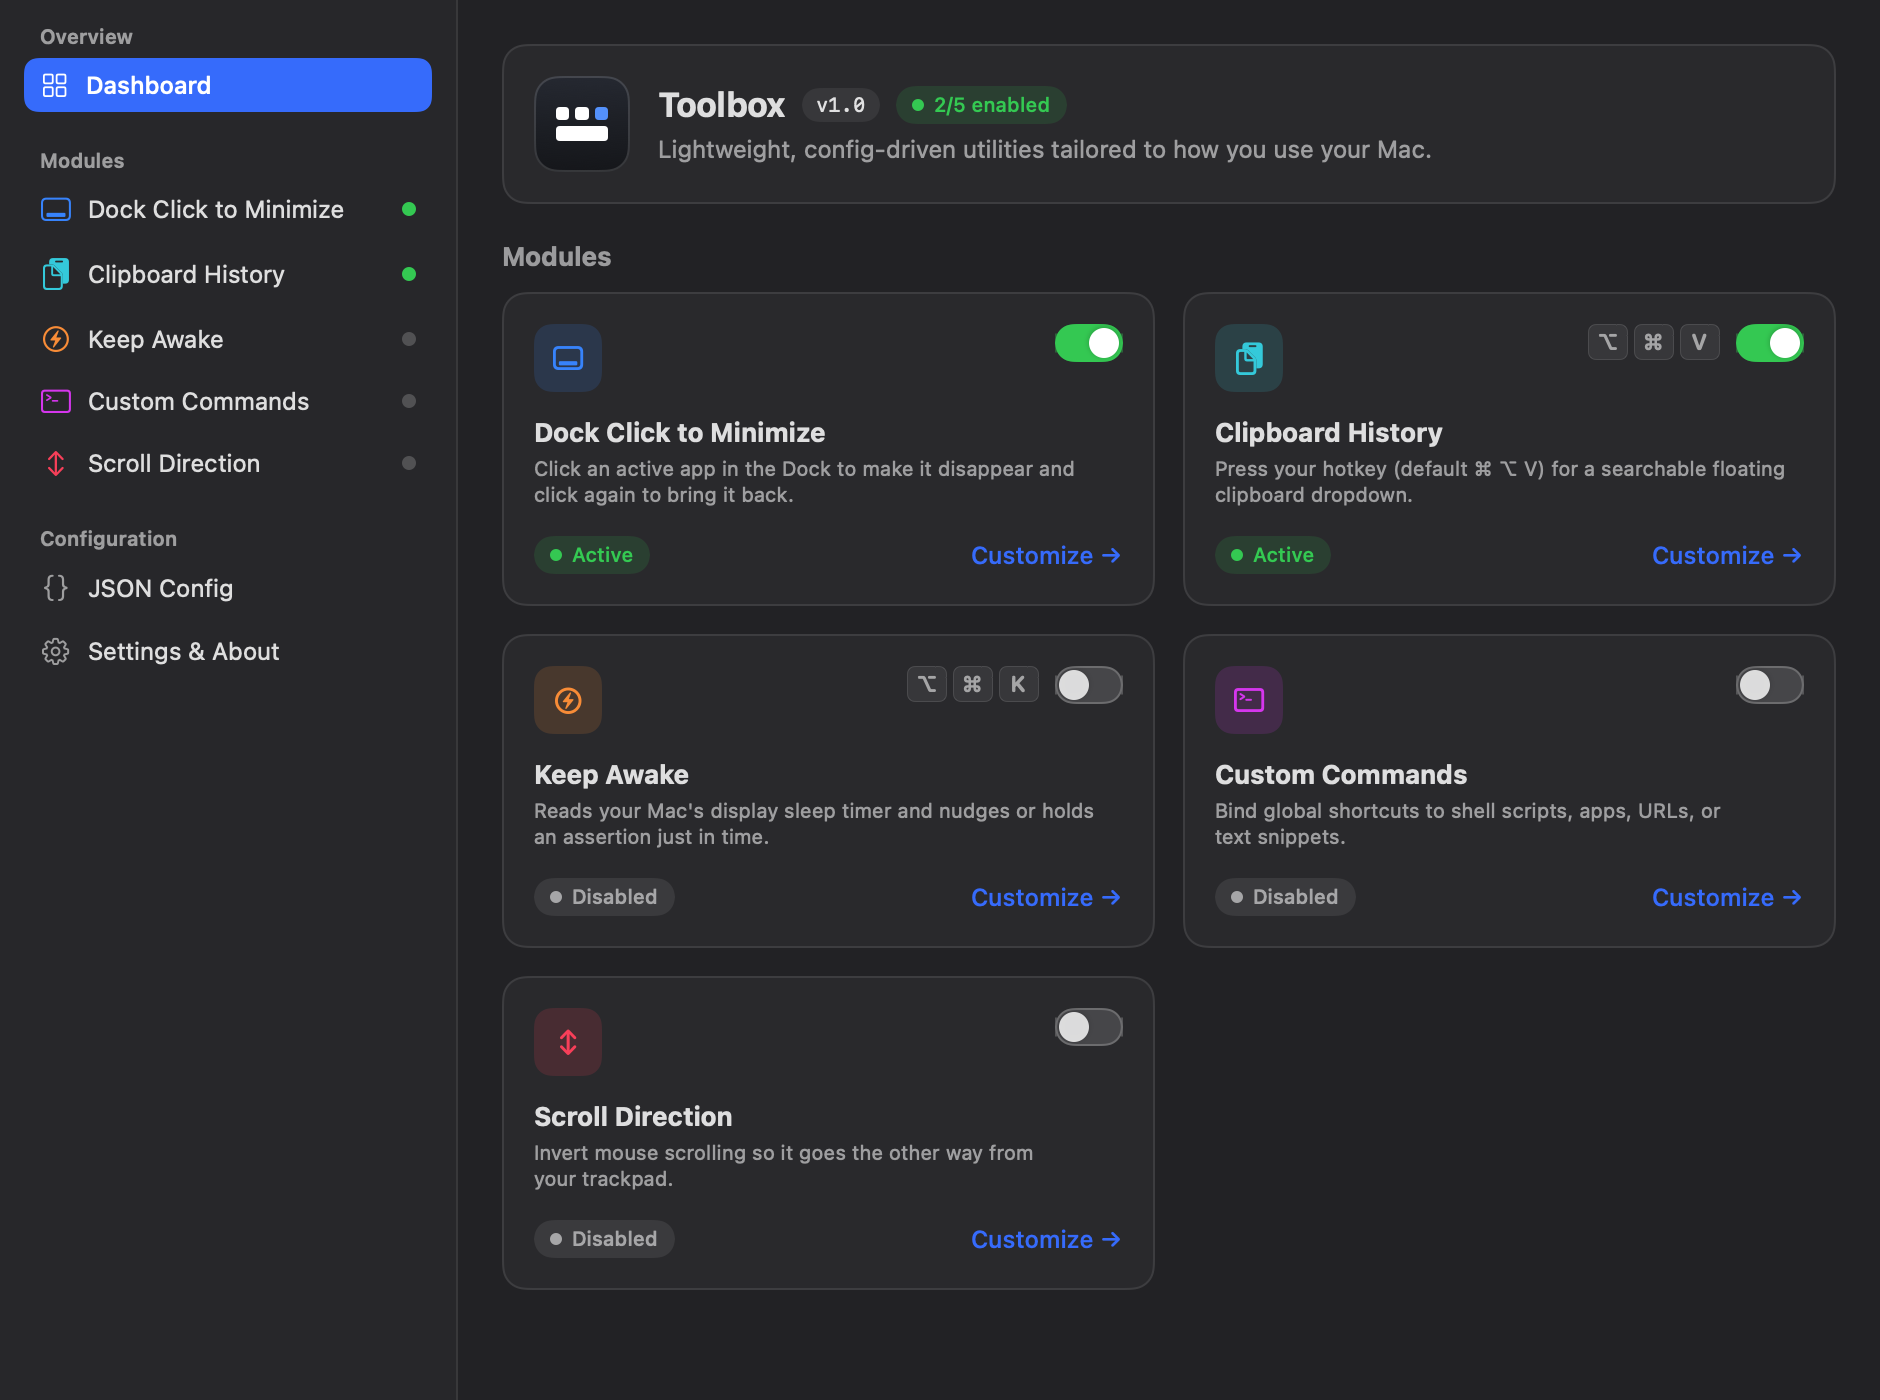
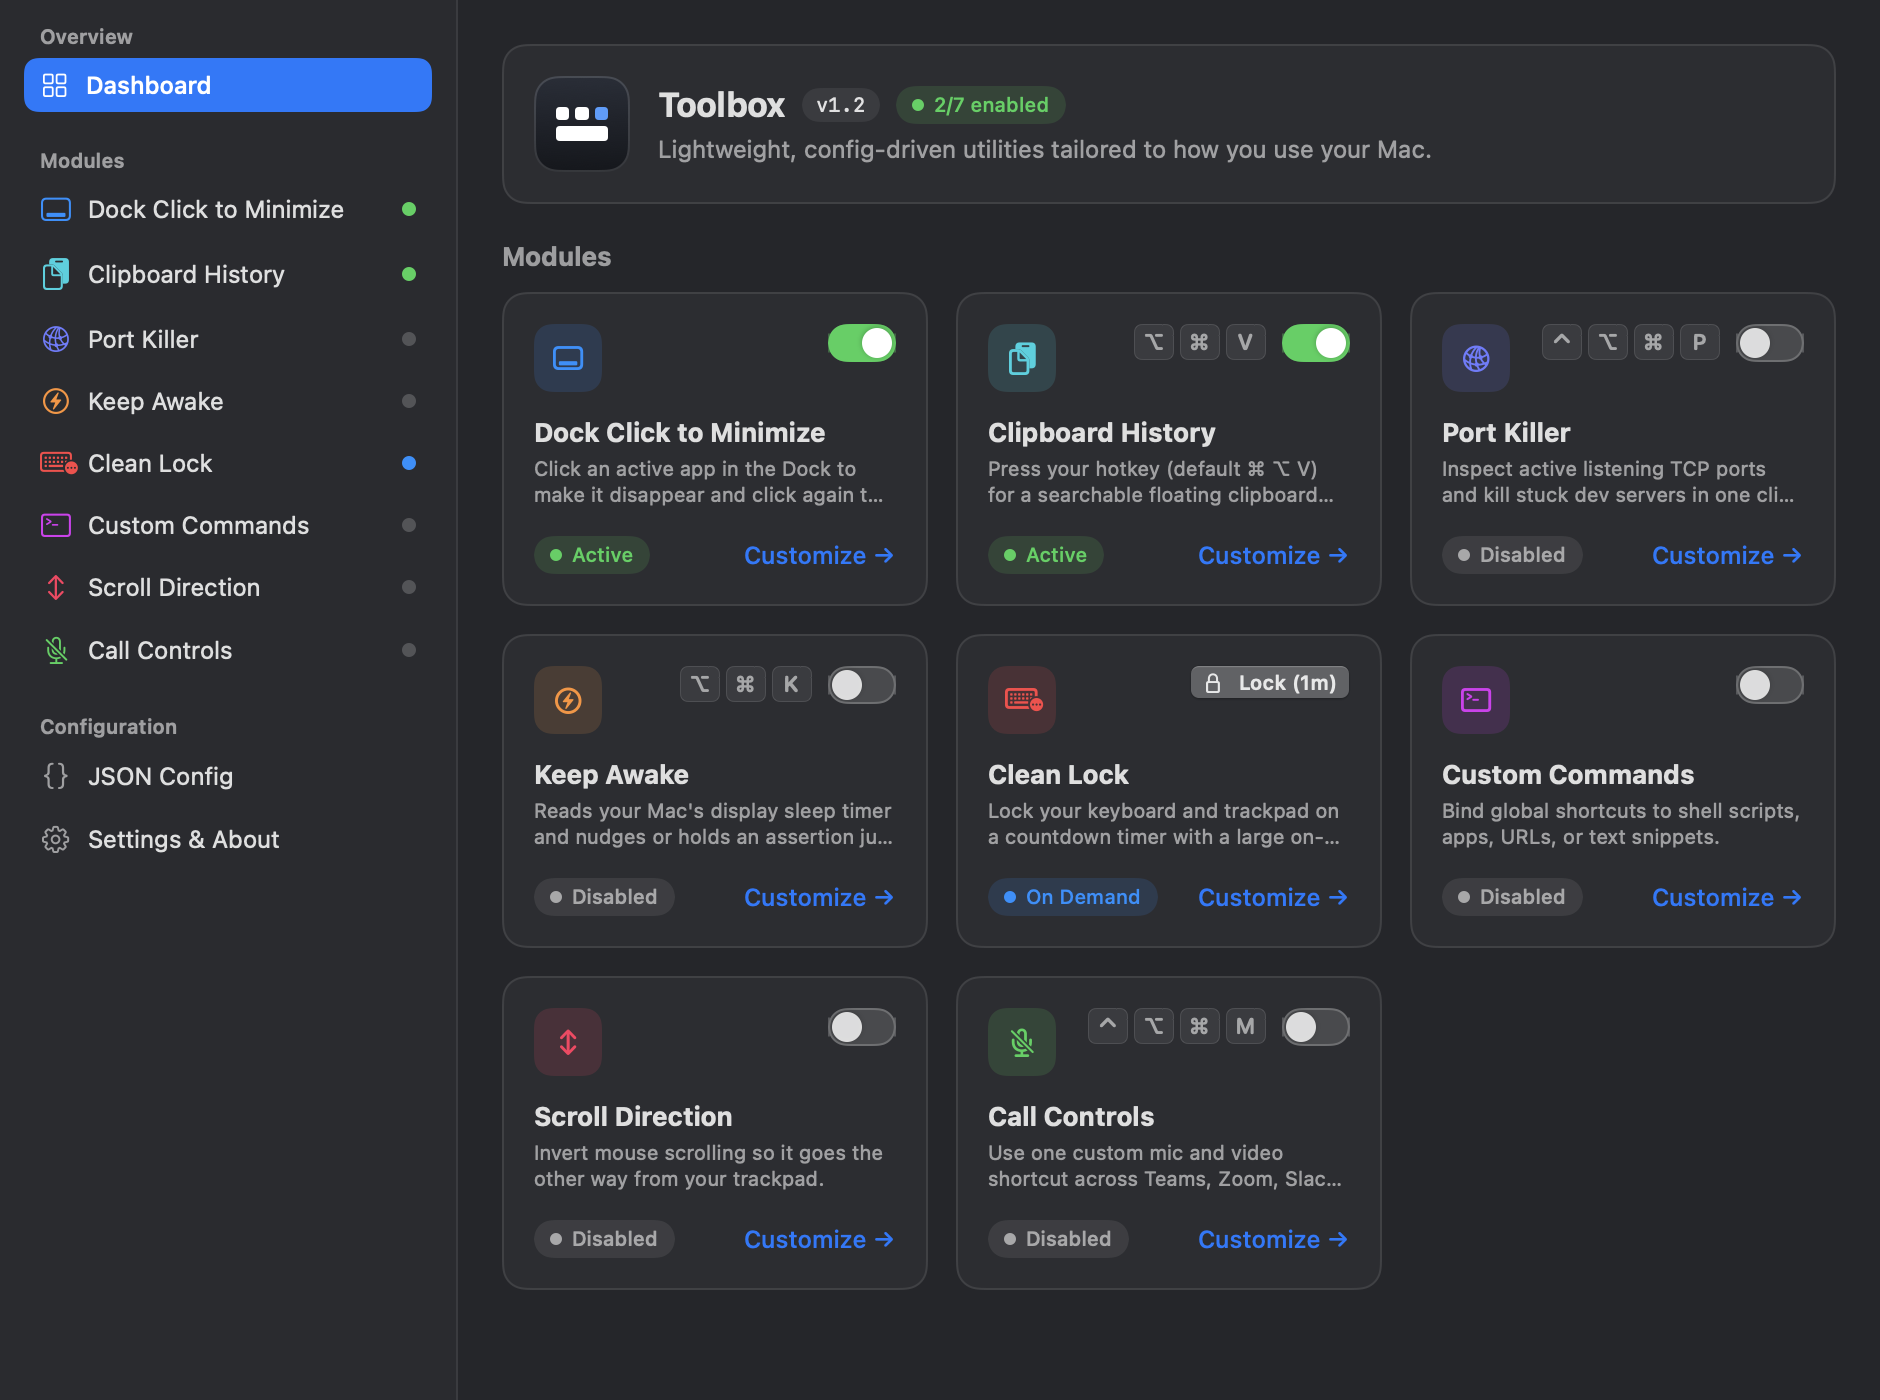
Update README, screenshots, and Fastfile GitHub release notes

diff --git a/README.md b/README.md
@@ -1,6 +1,6 @@
 # Toolbox: macOS quality-of-life utilities
 
-Lightweight, native macOS utilities for Dock window toggling, clipboard history, display sleep control, independent mouse scroll direction, and global shortcuts.
+Lightweight, native macOS utilities for Dock window toggling, clipboard history, port management, call mic/video controls, clean-lock mode, display sleep control, independent mouse scroll direction, and global shortcuts.
 
 **[Download .dmg](https://github.com/ssa17/toolbox/releases/latest/download/Toolbox.dmg)** · [All releases](https://github.com/ssa17/toolbox/releases)
 
@@ -19,11 +19,14 @@ Toolbox checks for updates automatically via Sparkle and installs them in place.
 ## What you get
 
 - **Dock Click to Minimize:** click the active app's Dock icon to hide its windows cleanly (Windows taskbar style, without cluttering the Dock's minimized tray) and click again to bring them straight back. Supports send-behind, minimize-tray modes, single/double-click, and per-app exclusions.
-- **Clipboard History (`⌘ ⌥ V`):** searchable floating clipboard dropdown with keyboard navigation (`↑`/`↓`/`⏎`/`Esc`), full-text preview, pinning with custom titles, password-manager filtering, customizable history limits (`1–200`), and optional auto-paste.
+- **Clipboard History (`⌘ ⌥ V`):** searchable floating clipboard dropdown with keyboard navigation (`↑`/`↓`/`⏎`/`Esc`), `⌘ 1`–`⌘ 9` quick-paste, full-text preview, pinning with custom titles, password-manager filtering, customizable history limits (`1–200`), optional auto-paste, and optional persistence across restarts.
+- **Port Killer (`⌃ ⌥ ⌘ P`):** inspect active listening TCP ports, pin favorite dev ports, and stop or force-kill stuck servers in one click.
 - **Keep Awake (`⌘ ⌥ K`):** reads your Mac's `pmset` display sleep timeout and nudges the cursor just before sleep and/or holds an IOKit power assertion for quick timers (`15m`, `30m`, `1h`, `2h`) or indefinitely.
-- **Scroll Direction:** invert classic notched mouse wheels while leaving Apple trackpads and smooth-scroll mice on your system setting.
+- **Clean Lock:** temporarily lock your keyboard (including media, volume, and brightness keys) and mouse/trackpad input for `10s`–`3m` with a center-screen countdown and `Hold ⌃ ⌥ ⌘ Esc (3s)` emergency unlock.
 - **Custom Commands:** bind global hotkeys to shell commands, applications, URLs, or text snippets with optional toast feedback.
-- **Menu-bar item & dropdown:** pause or resume all modules at once, toggle individual features, check Clipboard count or toggle Keep Awake, and open Dashboard or Settings in one click.
+- **Scroll Direction:** invert classic notched mouse wheels while leaving Apple trackpads and smooth-scroll mice on your system setting.
+- **Call Controls (`⌃ ⌥ ⌘ M` / `⌃ ⌥ ⌘ V`):** unified global Mic and Video shortcuts that mute your system microphone and control FaceTime, Microsoft Teams, Zoom, Slack, Google Meet, Discord, or custom call apps, paired with a draggable floating Mic/Camera status pill, output device cycling, and auto-mute while typing.
+- **Menu-bar item & dropdown:** pause or resume all modules at once, toggle and reorder which features or quick actions appear in the menu bar, check Clipboard count or Ports, toggle Keep Awake, and open Dashboard or Settings in one click.
 - **Configuration as code:** all settings live in `~/.config/toolbox/config.json` with automatic hot-reload and an in-app JSON editor. Pinned clipboard entries persist in `~/.config/toolbox/pinned_clipboard.json`.
 
 <p align="center">
@@ -74,7 +77,7 @@ See [EXTENDING.md](EXTENDING.md) to add a new module, [docs/testing.md](docs/tes
 Sources/Toolbox/
 ├── ToolboxApp.swift          app entry point, CLI flags, single-instance guard
 ├── Core/                     module registry, config watcher, hotkeys, permissions, Sparkle, self-tests
-├── Modules/                  DockMinimize, Clipboard, KeepAwake, CustomCommands, ScrollDirection
+├── Modules/                  DockMinimize, Clipboard, PortKiller, KeepAwake, CleanLock, CustomCommands, ScrollDirection, CallControls
 └── UI/                       dashboard, sidebar shell, menu bar popover, settings, JSON editor
 scripts/build-app.sh          builds, signs, and notarizes build/Toolbox.app
 scripts/make-dmg-bg.mjs       generates the Retina DMG installer background
